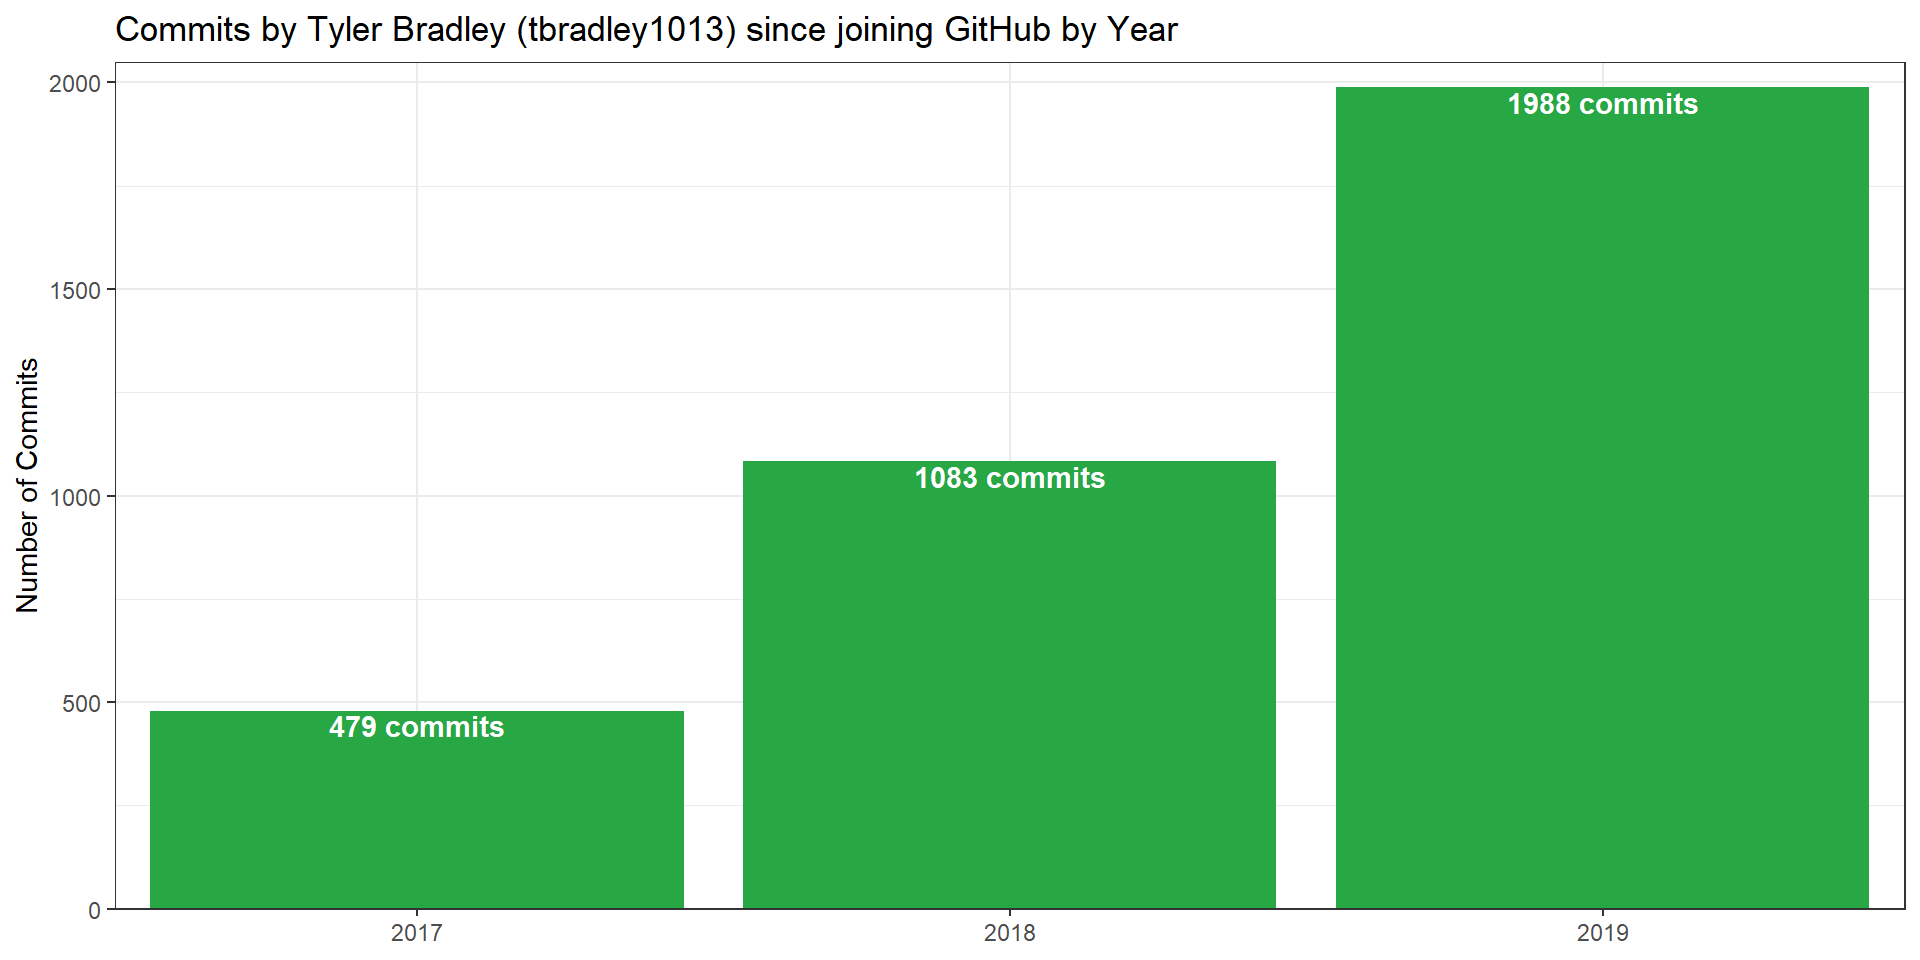
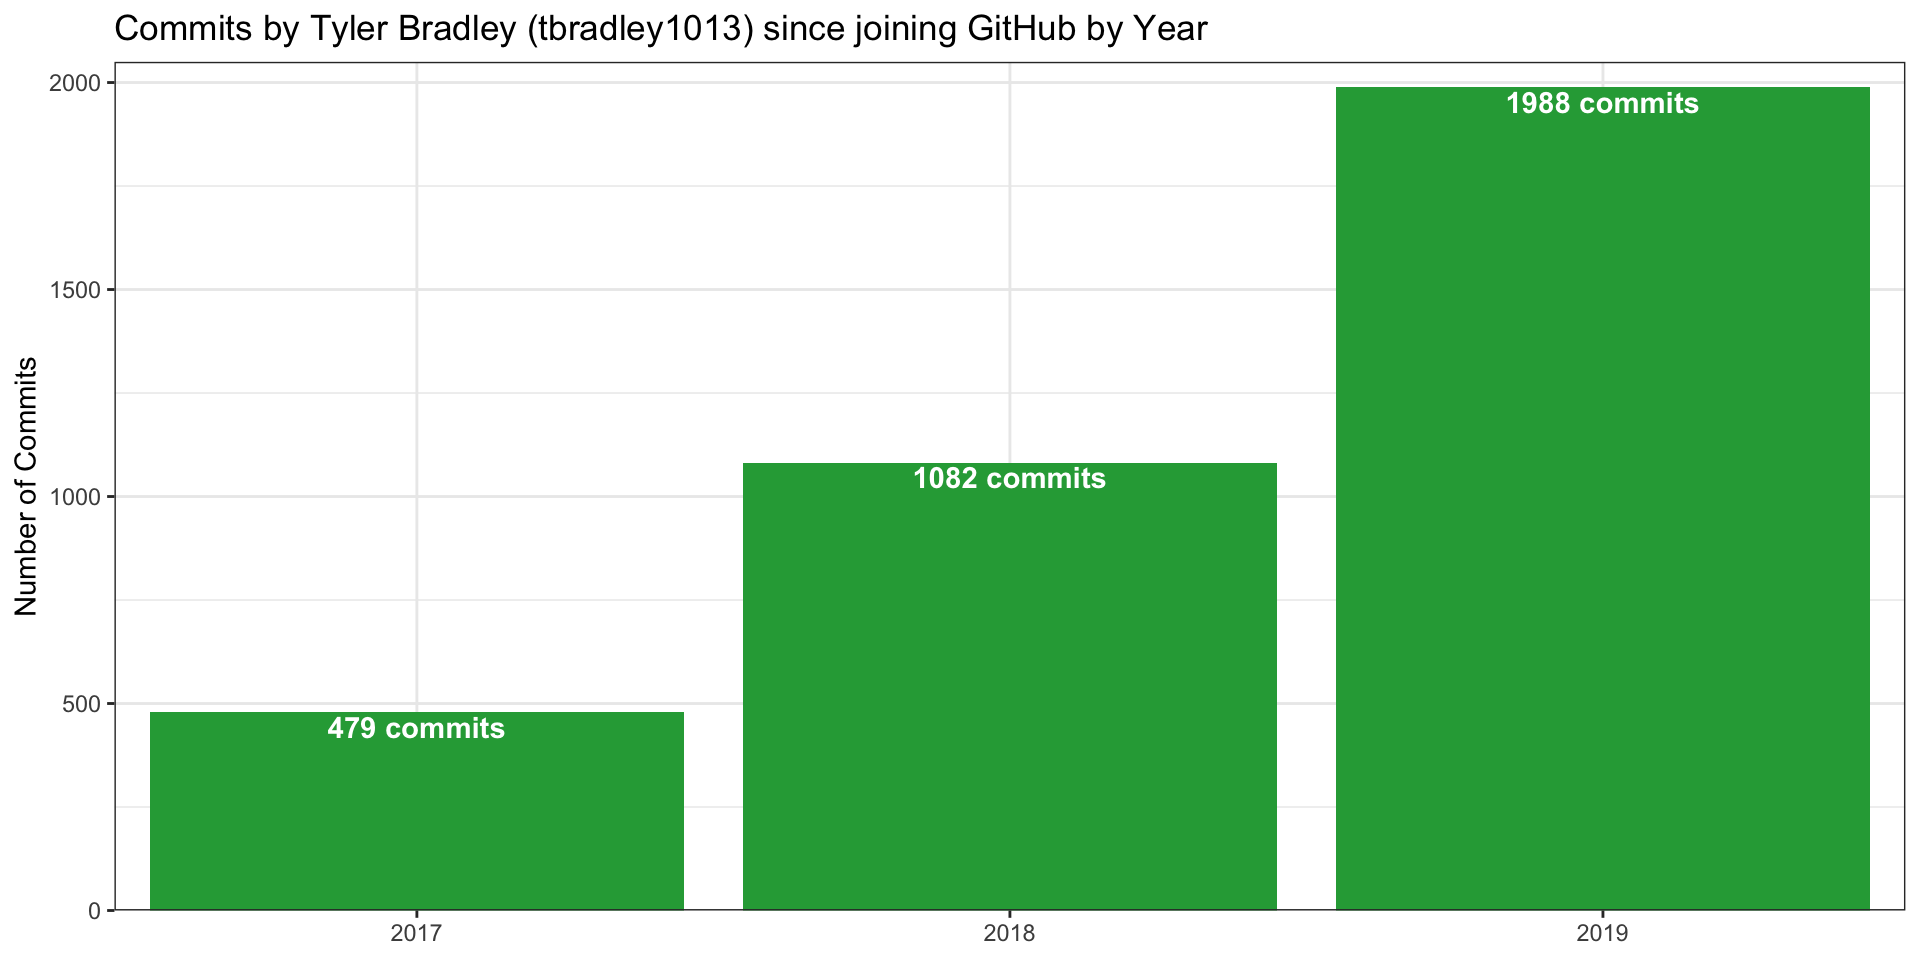
adding commit query params

diff --git a/content/post/2020-01-02-analyzing-my-2019-github-usage-in-r.html b/content/post/2020-01-02-analyzing-my-2019-github-usage-in-r.html
@@ -43,16 +43,16 @@ filter(repo_info, !private)</code></pre>
 ##    owner      name                  full_name                       private
 ##    &lt;chr&gt;      &lt;chr&gt;                 &lt;chr&gt;                           &lt;lgl&gt;  
 ##  1 saleslab   DWC                   saleslab/DWC                    FALSE  
-##  2 saleslab   ParsingLabSolutionsA~ saleslab/ParsingLabSolutionsAS~ FALSE  
-##  3 tbradley1~ adv-r                 tbradley1013/adv-r              FALSE  
-##  4 tbradley1~ aob-power             tbradley1013/aob-power          FALSE  
-##  5 tbradley1~ blog                  tbradley1013/blog               FALSE  
-##  6 tbradley1~ connectapi            tbradley1013/connectapi         FALSE  
-##  7 tbradley1~ critical-thinking-ev~ tbradley1013/critical-thinking~ FALSE  
-##  8 tbradley1~ dbp-calculator        tbradley1013/dbp-calculator     FALSE  
-##  9 tbradley1~ dragondown            tbradley1013/dragondown         FALSE  
-## 10 tbradley1~ dragondown_book       tbradley1013/dragondown_book    FALSE  
-## # ... with 25 more rows</code></pre>
+##  2 saleslab   ParsingLabSolutionsA… saleslab/ParsingLabSolutionsAS… FALSE  
+##  3 tbradley1… adv-r                 tbradley1013/adv-r              FALSE  
+##  4 tbradley1… aob-power             tbradley1013/aob-power          FALSE  
+##  5 tbradley1… blog                  tbradley1013/blog               FALSE  
+##  6 tbradley1… connectapi            tbradley1013/connectapi         FALSE  
+##  7 tbradley1… critical-thinking-ev… tbradley1013/critical-thinking… FALSE  
+##  8 tbradley1… dbp-calculator        tbradley1013/dbp-calculator     FALSE  
+##  9 tbradley1… dragondown            tbradley1013/dragondown         FALSE  
+## 10 tbradley1… dragondown_book       tbradley1013/dragondown_book    FALSE  
+## # … with 25 more rows</code></pre>
 <p>There is a lot of other information contained within the <code>repos</code> API response. However, since I will be focusing mainly on my commits, I don’t need most of it for this purpose.</p>
 </div>
 <div id="get-and-parse-commits" class="section level1">
@@ -89,7 +89,10 @@ gh_safe &lt;- purrr::possibly(gh, otherwise = NULL)</code></pre>
   owner &lt;- name_split[[1]][1]
   repo &lt;- name_split[[1]][2]
   
-  repo_commits &lt;- gh_safe(&quot;/repos/:owner/:repo/commits&quot;, owner = owner, repo = repo, .limit = Inf)
+  repo_commits &lt;- gh_safe(&quot;/repos/:owner/:repo/commits&quot;, owner = owner, 
+                          repo = repo, author = &quot;tbradley1013&quot;,
+                          since = &quot;2017-01-01T00:00:00Z&quot;,
+                          .limit = Inf)
   
   out &lt;- parse_commit(repo_commits, repo = z)
   
@@ -102,20 +105,20 @@ my_commits &lt;- all_commits %&gt;%
   mutate(commit_time = commit_time - hours(5))
 
 my_commits</code></pre>
-<pre><code>## # A tibble: 3,550 x 5
+<pre><code>## # A tibble: 3,560 x 5
 ##    repo     commit_by  username  commit_time         message               
 ##    &lt;chr&gt;    &lt;chr&gt;      &lt;chr&gt;     &lt;dttm&gt;              &lt;chr&gt;                 
-##  1 nmanna/~ Tyler Bra~ tbradley~ 2019-10-25 07:16:50 rendering changes     
-##  2 nmanna/~ Tyler Bra~ tbradley~ 2019-10-25 07:08:12 Merge branch &#39;master&#39;~
-##  3 nmanna/~ Tyler Bra~ tbradley~ 2019-10-25 07:08:03 changes from rendering
-##  4 nmanna/~ Tyler Bra~ tbradley~ 2019-10-25 07:07:23 force style change    
-##  5 nmanna/~ Tyler Bra~ tbradley~ 2019-10-25 06:45:06 adding public back to~
-##  6 nmanna/~ Tyler Bra~ tbradley~ 2019-10-25 06:44:44 removing public       
-##  7 nmanna/~ Tyler Bra~ tbradley~ 2019-10-25 06:37:32 Merge branch &#39;master&#39;~
-##  8 nmanna/~ Tyler Bra~ tbradley~ 2019-10-25 06:37:12 rendered on server    
-##  9 nmanna/~ Tyler Bra~ tbradley~ 2019-10-25 06:35:46 removed public        
-## 10 nmanna/~ Tyler Bra~ tbradley~ 2019-10-25 06:33:36 added post for settin~
-## # ... with 3,540 more rows</code></pre>
+##  1 nmanna/… Tyler Bra… tbradley… 2019-10-25 07:16:50 rendering changes     
+##  2 nmanna/… Tyler Bra… tbradley… 2019-10-25 07:08:12 Merge branch &#39;master&#39;…
+##  3 nmanna/… Tyler Bra… tbradley… 2019-10-25 07:08:03 changes from rendering
+##  4 nmanna/… Tyler Bra… tbradley… 2019-10-25 07:07:23 force style change    
+##  5 nmanna/… Tyler Bra… tbradley… 2019-10-25 06:45:06 adding public back to…
+##  6 nmanna/… Tyler Bra… tbradley… 2019-10-25 06:44:44 removing public       
+##  7 nmanna/… Tyler Bra… tbradley… 2019-10-25 06:37:32 Merge branch &#39;master&#39;…
+##  8 nmanna/… Tyler Bra… tbradley… 2019-10-25 06:37:12 rendered on server    
+##  9 nmanna/… Tyler Bra… tbradley… 2019-10-25 06:35:46 removed public        
+## 10 nmanna/… Tyler Bra… tbradley… 2019-10-25 06:33:36 added post for settin…
+## # … with 3,550 more rows</code></pre>
 </div>
 <div id="analyzing-the-results" class="section level1">
 <h1>Analyzing the results</h1>
